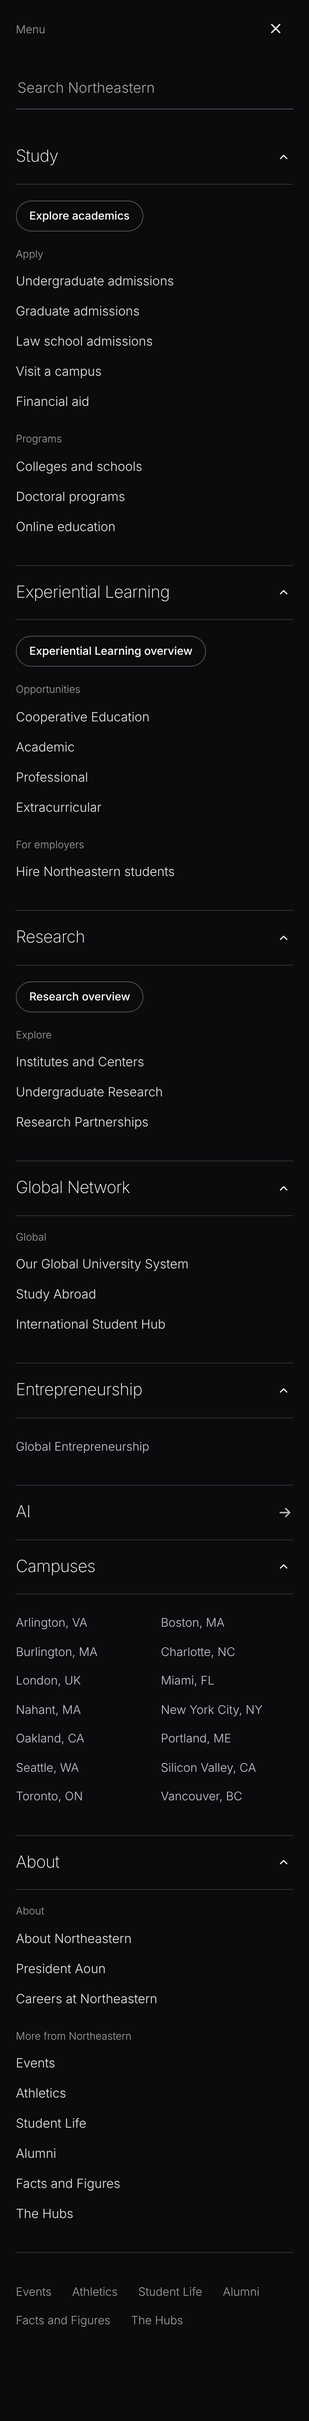
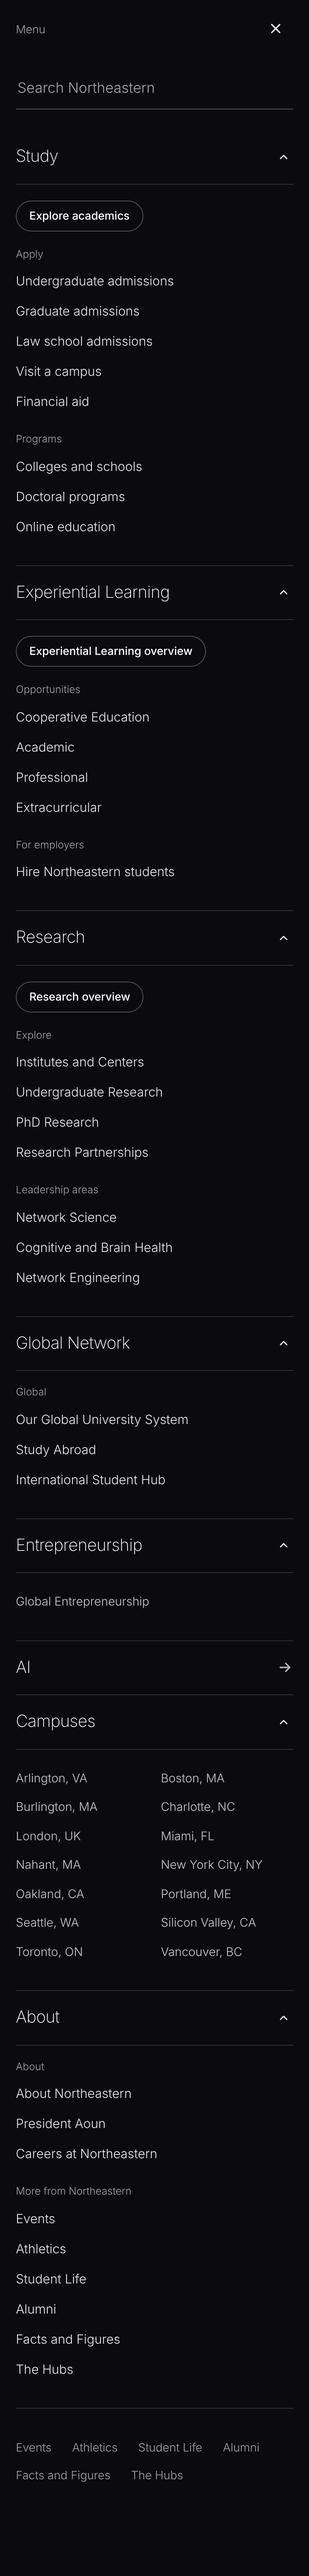
Concept 22: Research brings back PhD Research and lists the three leadership areas; compare page updated
Claude-Session: https://claude.ai/code/session_01NmDkJiMHENnTGWnZnRnkmx

diff --git a/concept-22/index.html b/concept-22/index.html
@@ -1460,7 +1460,13 @@
       <div class="mp-col"><div class="mp-h">Explore</div><div class="mp-links">
         <a href="https://research.northeastern.edu/institutes-and-centers/">Institutes and Centers</a>
         <a href="https://research.northeastern.edu/ug-research/">Undergraduate Research</a>
+        <a href="https://research.northeastern.edu/phd-research/">PhD Research</a>
         <a href="https://research.northeastern.edu/partnerships/">Research Partnerships</a>
+      </div></div>
+      <div class="mp-col"><div class="mp-h">Leadership areas</div><div class="mp-links">
+        <a href="https://research.northeastern.edu/network-science/">Network Science</a>
+        <a href="https://research.northeastern.edu/cognitive-and-brain-health/">Cognitive and Brain Health</a>
+        <a href="https://research.northeastern.edu/network-engineering/">Network Engineering</a>
       </div></div>
       <div class="mp-col mp-featcol"><div class="mp-h">From the newsroom</div><a class="mp-feat" href="https://news.northeastern.edu/2025/10/01/walking-the-future/"><img src="https://news.northeastern.edu/wp-content/uploads/2025/09/093025_MM_Field_Robotos_Lab_033.jpg" alt="" loading="lazy"><span class="ft">Robots walk to class here. Student researchers are teaching them how</span><span class="fl">Read on NGN<svg viewBox="0 0 16 16" width="14" height="14" aria-hidden="true" style="vertical-align:-2px;margin-left:6px"><path d="M3 8h9M8.5 4l4 4-4 4" fill="none" stroke="currentColor" stroke-width="1.5" stroke-linecap="round" stroke-linejoin="round"/></svg></span></a></div>
   </div></div>
@@ -1558,7 +1564,11 @@
         <a href="https://research.northeastern.edu/">Research overview</a>
         <a href="https://research.northeastern.edu/institutes-and-centers/">Institutes and Centers</a>
         <a href="https://research.northeastern.edu/ug-research/">Undergraduate Research</a>
+        <a href="https://research.northeastern.edu/phd-research/">PhD Research</a>
         <a href="https://research.northeastern.edu/partnerships/">Research Partnerships</a>
+        <a href="https://research.northeastern.edu/network-science/">Network Science</a>
+        <a href="https://research.northeastern.edu/cognitive-and-brain-health/">Cognitive and Brain Health</a>
+        <a href="https://research.northeastern.edu/network-engineering/">Network Engineering</a>
       </div>
     </div>
     <div class="tkv-grp">

diff --git a/nav-compare/index.html b/nav-compare/index.html
@@ -82,8 +82,8 @@
   </section>
 
   <section id="research">
-    <div class="sh"><h2>Research</h2><span class="count">Links <b>8 → 4</b> · newsroom card kept</span></div>
-    <ul class="notes"><li>Removed: PhD Research (overlaps Doctoral programs under Study), the Health / Security / Sustainability focus areas.</li><li>Column heading “For researchers” becomes “Explore”, since Undergraduate Research is for students.</li></ul>
+    <div class="sh"><h2>Research</h2><span class="count">Links <b>8 → 8</b> · newsroom card kept</span></div>
+    <ul class="notes"><li>The Health / Security / Sustainability focus areas are replaced by the research site’s current leadership areas: Network Science, Cognitive and Brain Health, Network Engineering.</li><li>Column heading “For researchers” becomes “Explore”, since Undergraduate Research is for students.</li></ul>
     <div class="pair">
       <div class="col"><h3>Before · Concept 14</h3><a class="shot" href="shots/c14-mp-research.png"><img src="shots/c14-mp-research.png" alt="Concept 14 Research dropdown" loading="lazy"></a></div>
       <div class="col after"><h3>After · Concept 22</h3><a class="shot" href="shots/c22-mp-research.png"><img src="shots/c22-mp-research.png" alt="Concept 22 Research dropdown" loading="lazy"></a></div>
@@ -117,7 +117,7 @@
   </section>
 
   <section id="mobile" class="mobile">
-    <div class="sh"><h2>Phone menu</h2><span class="count">Links <b>63 → 47</b> · every group shown open</span></div>
+    <div class="sh"><h2>Phone menu</h2><span class="count">Links <b>63 → 51</b> · every group shown open</span></div>
     <ul class="notes"><li>Same removals as desktop, plus the duplicate “Global overview” link (it went to the same page as “Our Global University System”).</li></ul>
     <div class="pair">
       <div class="col"><h3>Before · Concept 14</h3><a class="shot" href="shots/c14-mobile.png"><img src="shots/c14-mobile.png" alt="Concept 14 phone menu, all groups open" loading="lazy"></a></div>
@@ -125,6 +125,6 @@
     </div>
   </section>
 </main>
-<footer><div class="wrap">Desktop dropdown links: 61 → 46. Captured October 10, 2026.</div></footer>
+<footer><div class="wrap">Desktop dropdown links: 61 → 50. Captured October 10, 2026.</div></footer>
 </body>
 </html>
